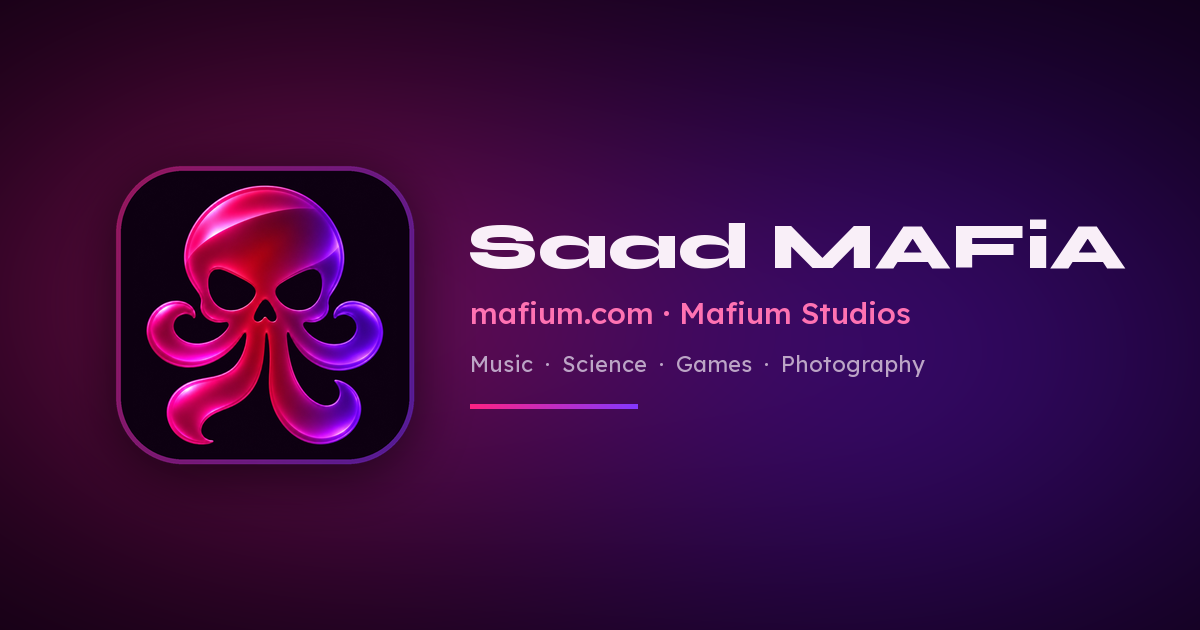
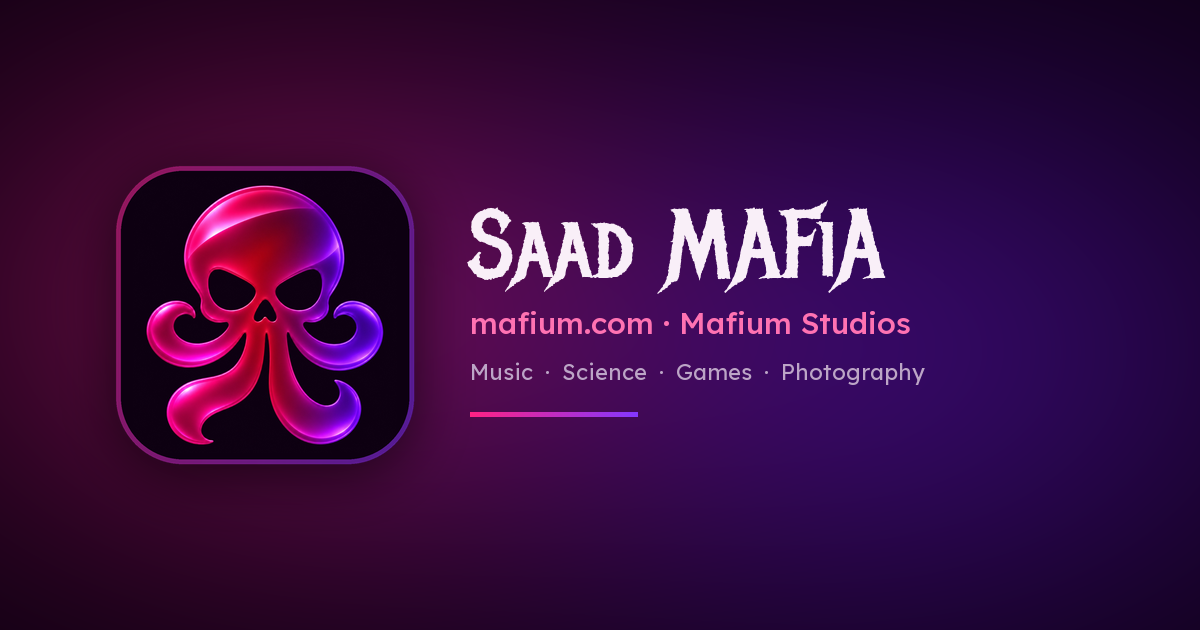
Apply Metal Mania brand font on mafium.com and sync Oddmeter Play button/theme to crimson-violet

diff --git a/oddmeter/drummer.js b/oddmeter/drummer.js
@@ -11,7 +11,7 @@
 export const drummerStorageKey = 'oddmeter-drummer-v1';
 
 export const DRUM_VOICE_MAP = {
-  click:     { name: 'Click',     color: '#ff5d4f', piece: 'tom',       hand: 'right' },
+  click:     { name: 'Click',     color: '#ff2a85', piece: 'tom',       hand: 'right' },
   hat:       { name: 'Hi-hat',    color: '#e2e6f0', piece: 'hat',       hand: 'left'  },
   cowbell:   { name: 'Cowbell',   color: '#6cb4ff', piece: 'cowbell',   hand: 'right' },
   kick:      { name: 'Kick',      color: '#ffb04f', piece: 'kick',      hand: 'foot'  },
@@ -222,7 +222,7 @@ export function createDrummerStage({ canvas, statusBadge = null, onTapPiece = nu
     crash:     { dx: -64, y: 24, r: 15, flash: 0, tilt: 0, color: '#fde047', sound: 'click',     accent: true  },
     hat:       { dx: -49, y: 42, r: 12, flash: 0, tilt: 0, color: '#e2e6f0', sound: 'hat',       accent: false },
     snare:     { dx: -31, y: 52, r: 13, flash: 0, tilt: 0, color: '#4ce3a8', sound: 'snare',     accent: false, rim: false },
-    tom:       { dx: -15, y: 39, r: 11, flash: 0, tilt: 0, color: '#ff5d4f', sound: 'click',     accent: false },
+    tom:       { dx: -15, y: 39, r: 11, flash: 0, tilt: 0, color: '#ff2a85', sound: 'click',     accent: false },
     kick:      { dx:   0, y: 57, r: 16, flash: 0, tilt: 0, color: '#ffb04f', sound: 'kick',      accent: true  },
     cowbell:   { dx:  17, y: 34, r:  9, flash: 0, tilt: 0, color: '#6cb4ff', sound: 'cowbell',   accent: false },
     woodblock: { dx:  35, y: 42, r:  9, flash: 0, tilt: 0, color: '#c98a5b', sound: 'woodblock', accent: false },
@@ -499,7 +499,7 @@ export function createDrummerStage({ canvas, statusBadge = null, onTapPiece = nu
 
     const spotAccent = music.countIn
       ? '#ffb04f'
-      : (music.inRepeat ? '#b18cff' : (downbeatFlash > 0.2 ? '#fde047' : '#ff5d4f'));
+      : (music.inRepeat ? '#b18cff' : (downbeatFlash > 0.2 ? '#fde047' : '#ff2a85'));
 
     // Sleek overhead metronome pendulum LED track embedded inside truss (zero overlap with drummer!)
     const railW = 68;
@@ -591,7 +591,7 @@ export function createDrummerStage({ canvas, statusBadge = null, onTapPiece = nu
       g.fillStyle = '#131828';
       g.fillRect(rx + 2, y0 + 12, 14, 14);
       drawEllipse(g, rx + 9, y0 + 19, 5, 5, '#eab308', '#0b0e17');
-      drawEllipse(g, rx + 9, y0 + 19, 2, 2, '#ff5d4f');
+      drawEllipse(g, rx + 9, y0 + 19, 2, 2, '#ff2a85');
 
       // Framed studio waveform art (right)
       const wx = cx + 132;
@@ -601,7 +601,7 @@ export function createDrummerStage({ canvas, statusBadge = null, onTapPiece = nu
       g.fillRect(wx + 1, y0 + 12, 24, 12);
       g.fillStyle = '#0e1424';
       g.fillRect(wx + 2, y0 + 13, 22, 10);
-      const waveCols = ['#ff5d4f', '#e2e6f0', '#6cb4ff', '#4ce3a8'];
+      const waveCols = ['#ff2a85', '#e2e6f0', '#6cb4ff', '#4ce3a8'];
       for (let i = 0; i < 6; i++) {
         const wh = 2 + ((i * 3 + 2) % 6);
         g.fillStyle = waveCols[i % waveCols.length];
@@ -618,7 +618,7 @@ export function createDrummerStage({ canvas, statusBadge = null, onTapPiece = nu
       g.fillStyle = '#15192a';
       g.fillRect(sx + 2, y0 + 14, 36, 7);
       g.fillRect(sx + 2, y0 + 23, 36, 7);
-      const spines = ['#ff5d4f', '#ffb04f', '#4ce3a8', '#6cb4ff', '#b18cff', '#e2e6f0', '#4fdce3'];
+      const spines = ['#ff2a85', '#ffb04f', '#4ce3a8', '#6cb4ff', '#b18cff', '#e2e6f0', '#4fdce3'];
       for (let i = 0; i < 11; i++) {
         g.fillStyle = spines[i % spines.length];
         g.fillRect(sx + 3 + i * 3, y0 + 15, 2, 6);
@@ -693,8 +693,8 @@ export function createDrummerStage({ canvas, statusBadge = null, onTapPiece = nu
       g.fillRect(gx + 6, y0 + 24, 4, 16);
       g.fillStyle = '#d97706';
       g.fillRect(gx + 7, y0 + 25, 2, 14);
-      drawEllipse(g, gx + 8, y0 + 46, 6, 7, '#ff5d4f', '#0b0e17');
-      drawEllipse(g, gx + 8, y0 + 40, 4, 4, '#ff5d4f', '#0b0e17');
+      drawEllipse(g, gx + 8, y0 + 46, 6, 7, '#ff2a85', '#0b0e17');
+      drawEllipse(g, gx + 8, y0 + 40, 4, 4, '#ff2a85', '#0b0e17');
       g.fillStyle = '#f8fafc';
       g.fillRect(gx + 6, y0 + 44, 4, 4);
       g.fillStyle = '#1e293b';
@@ -718,7 +718,7 @@ export function createDrummerStage({ canvas, statusBadge = null, onTapPiece = nu
       g.fillStyle = '#0d1220';
       g.fillRect(deskX + 6, deskY - 10, 9, 8);
       drawEllipse(g, deskX + 10, deskY - 6, 3, 3, '#23304f', (!reduce && ampPump > 0.3) ? '#38bdf8' : '#475569');
-      const ledColors = ['#ff5d4f', '#e2e6f0', '#6cb4ff', '#4ce3a8'];
+      const ledColors = ['#ff2a85', '#e2e6f0', '#6cb4ff', '#4ce3a8'];
       for (let k = 0; k < 4; k++) {
         const lit = playing && !allMuted && (((Math.floor(tick / 8) + k) % 2) === 0);
         g.fillStyle = lit ? ledColors[k] : '#26314c';
@@ -762,7 +762,7 @@ export function createDrummerStage({ canvas, statusBadge = null, onTapPiece = nu
       for (let r = 0; r < 4; r++) {
         g.fillStyle = '#0e1322';
         g.fillRect(tx + 3, y0 + 25 + r * 8, 20, 5);
-        g.fillStyle = r === 0 ? '#4ce3a8' : (r === 1 ? '#38bdf8' : (r === 2 ? '#ffb04f' : '#ff5d4f'));
+        g.fillStyle = r === 0 ? '#4ce3a8' : (r === 1 ? '#38bdf8' : (r === 2 ? '#ffb04f' : '#ff2a85'));
         g.fillRect(tx + 5, y0 + 27 + r * 8, 4 + ((r * 3 + (playing ? Math.floor(tick / 6) % 5 : 2)) % 8), 2);
         g.fillStyle = '#64748b';
         g.fillRect(tx + 19, y0 + 27 + r * 8, 2, 2);
@@ -796,7 +796,7 @@ export function createDrummerStage({ canvas, statusBadge = null, onTapPiece = nu
     g.fillRect(riserX, y0 + 50, riserW, 21);
     g.fillStyle = '#3c2142';
     g.fillRect(cx - 75, y0 + 52, 150, 17);
-    g.fillStyle = downbeatFlash > 0.25 ? '#ff5d4f' : '#5e315d';
+    g.fillStyle = downbeatFlash > 0.25 ? '#ff2a85' : '#5e315d';
     g.fillRect(cx - 73, y0 + 53, 146, 1);
     g.fillRect(cx - 73, y0 + 67, 146, 1);
     g.fillRect(cx - 73, y0 + 53, 1, 15);
@@ -839,7 +839,7 @@ export function createDrummerStage({ canvas, statusBadge = null, onTapPiece = nu
     g.fillStyle = '#cbd5e1';
     g.fillRect(cx - 3, 35 + dy, 1, 5);
     g.fillRect(cx + 2, 35 + dy, 1, 5);
-    g.fillStyle = downbeatFlash > 0.2 ? '#fde047' : '#ff5d4f';
+    g.fillStyle = downbeatFlash > 0.2 ? '#fde047' : '#ff2a85';
     g.fillRect(cx - 4, 41 + dy, 2, 4);
     g.fillStyle = '#38bdf8';
     g.fillRect(cx - 1, 39 + dy, 2, 6);
@@ -878,7 +878,7 @@ export function createDrummerStage({ canvas, statusBadge = null, onTapPiece = nu
     g.fillRect(cx + 6, 24 + dy, 2, 1);
 
     // Over-Ear Headphone Cups
-    const cupLed = countInFlash > 0.2 ? '#ffb04f' : (downbeatFlash > 0.25 ? '#fde047' : '#ff5d4f');
+    const cupLed = countInFlash > 0.2 ? '#ffb04f' : (downbeatFlash > 0.25 ? '#fde047' : '#ff2a85');
     g.fillStyle = '#0b0e17';
     g.fillRect(cx - 13, 17 + dy, 4, 8);
     g.fillRect(cx + 9, 17 + dy, 4, 8);
@@ -961,12 +961,12 @@ export function createDrummerStage({ canvas, statusBadge = null, onTapPiece = nu
       4,
       9,
       KIT.tom.flash > 0.22 ? '#ffffff' : '#f1f5f9',
-      KIT.tom.flash > 0.22 ? '#ff857a' : '#ff5d4f',
+      KIT.tom.flash > 0.22 ? '#ff6eb0' : '#ff2a85',
       '#b83227',
       '#e2e6f0',
     );
     if (KIT.tom.flash > 0.22) {
-      drawEllipse(g, cx + KIT.tom.dx, y0 + KIT.tom.y + tomBounce, 7, 2, '#ff5d4f');
+      drawEllipse(g, cx + KIT.tom.dx, y0 + KIT.tom.y + tomBounce, 7, 2, '#ff2a85');
     }
 
     // Mounted Cowbell (blue steel bell)
@@ -1059,7 +1059,7 @@ export function createDrummerStage({ canvas, statusBadge = null, onTapPiece = nu
       g.fillRect(cx + lx, kickY + ly, 2, 2);
     }
     drawEllipse(g, cx + 6, kickY + 5, 2, 2, '#0b0e17');
-    g.fillStyle = kickPunch ? '#ff5d4f' : '#1e2436';
+    g.fillStyle = kickPunch ? '#ff2a85' : '#1e2436';
     g.fillRect(cx - 6, kickY - 2, 3, 6);
     g.fillRect(cx - 1, kickY - 6, 3, 10);
     g.fillRect(cx + 4, kickY - 4, 3, 8);
@@ -1151,7 +1151,7 @@ export function createDrummerStage({ canvas, statusBadge = null, onTapPiece = nu
         g.fillStyle = '#1b1826';
         g.fillRect(bx, ledY + 1, bw, 2);
       } else if (active) {
-        g.fillStyle = music.countIn ? '#ffb04f' : (music.inRepeat ? '#b18cff' : (b === 0 ? '#fde047' : '#ff5d4f'));
+        g.fillStyle = music.countIn ? '#ffb04f' : (music.inRepeat ? '#b18cff' : (b === 0 ? '#fde047' : '#ff2a85'));
         g.fillRect(bx, ledY, bw, 4);
         g.fillStyle = '#ffffff';
         g.fillRect(bx + 1, ledY + 1, Math.max(1, bw - 2), 1);

diff --git a/oddmeter/styles.css b/oddmeter/styles.css
@@ -3,28 +3,28 @@
   --sans: Inter, -apple-system, BlinkMacSystemFont, 'SF Pro Text', 'Segoe UI', system-ui, sans-serif;
   --mono: 'IBM Plex Mono', 'JetBrains Mono', ui-monospace, 'SF Mono', 'Cascadia Mono', Menlo, Consolas, monospace;
   font-family: var(--sans);
-  --background: #0d0e11;
-  --panel: #15171c;
-  --surface: #1d2028;
-  --surface-hover: #262a35;
-  --well: #0f1116;
-  --line: #282c36;
-  --line-control: #525866;
-  --line-strong: #6d7588;
-  --line-custom: #9aa3b8;
-  --text: #f3f2ef;
-  --muted: #a6abb8;
-  --accent: #ff5d4f;
-  --accent-hover: #ff7c70;
-  --accent-ink: #140d0c;
+  --background: #0d0011;
+  --panel: #16081e;
+  --surface: #200d2c;
+  --surface-hover: #2d143d;
+  --well: #100416;
+  --line: #2e1740;
+  --line-control: #583570;
+  --line-strong: #784c96;
+  --line-custom: #a97ac7;
+  --text: #f9eff8;
+  --muted: #b69cc2;
+  --accent: #ff2a85;
+  --accent-hover: #ff5ca3;
+  --accent-ink: #ffffff;
   --trim: #ffb04f;
   --ok: #4ce3a8;
   --repeat: #b18cff;
   --playhead: #ffffff;
-  --playhead-glow: #ff6b5e;
+  --playhead-glow: #ff2a85;
   --playhead-band: rgb(255 255 255 / 0.085);
   --playhead-band-edge: rgb(255 255 255 / 0.22);
-  --sound-click: #ff5d4f;
+  --sound-click: #ff2a85;
   --sound-woodblock: #c98a5b;
   --sound-clave: #4fdce3;
   --sound-rimshot: #ff84be;
@@ -65,7 +65,8 @@ body {
   min-width: 288px;
   min-block-size: 100svh;
   background:
-    radial-gradient(960px 440px at 50% -120px, color-mix(in oklab, var(--accent) 8%, transparent), transparent 72%),
+    radial-gradient(960px 440px at 30% -120px, color-mix(in oklab, var(--accent) 12%, transparent), transparent 72%),
+    radial-gradient(840px 420px at 78% -100px, rgb(139 52 255 / 0.12), transparent 72%),
     var(--background);
   color: var(--text);
   line-height: 1.45;
@@ -336,20 +337,20 @@ main.shell { padding-block: 12px 16px; }
   padding: 8px 18px;
   border-radius: var(--radius-md);
   color: var(--accent-ink);
-  background: var(--accent);
-  border-color: var(--accent);
+  background: linear-gradient(118deg, #ff2280, #8f34ff);
+  border-color: color-mix(in oklab, #ff2280 62%, #8f34ff);
   font-family: var(--mono);
   font-weight: 750;
   font-size: .85rem;
   line-height: 1.1;
   letter-spacing: .06em;
   text-transform: uppercase;
-  box-shadow: 0 4px 16px color-mix(in oklab, var(--accent) 28%, transparent), inset 0 1px 0 rgb(255 255 255 / 0.25);
+  box-shadow: 0 4px 18px rgb(255 34 128 / 0.32), 0 2px 14px rgb(143 52 255 / 0.26), inset 0 1px 0 rgb(255 255 255 / 0.28);
 }
 .play:not(:disabled):hover {
-  background: var(--accent-hover);
+  background: linear-gradient(118deg, #ff4294, #a352ff);
   border-color: var(--accent-hover);
-  box-shadow: 0 6px 20px color-mix(in oklab, var(--accent) 38%, transparent), inset 0 1px 0 rgb(255 255 255 / 0.3);
+  box-shadow: 0 6px 22px rgb(255 34 128 / 0.42), 0 4px 18px rgb(143 52 255 / 0.34), inset 0 1px 0 rgb(255 255 255 / 0.34);
 }
 .play[data-running] {
   background: color-mix(in oklab, var(--accent) 18%, var(--surface));

diff --git a/home.css b/home.css
@@ -41,7 +41,7 @@
   --vermilion: var(--vermilion-light);
   --cobalt: var(--cobalt-light);
 
-  --brand-display: 'Syne', 'Lexend', -apple-system, BlinkMacSystemFont, sans-serif;
+  --brand-display: 'Metal Mania', 'Lexend', -apple-system, BlinkMacSystemFont, sans-serif;
   --display: 'Lexend', -apple-system, BlinkMacSystemFont, 'Segoe UI', system-ui, sans-serif;
   --sans: 'Lexend', -apple-system, BlinkMacSystemFont, 'Segoe UI', system-ui, sans-serif;
 
@@ -228,8 +228,8 @@ a { color: inherit; }
   align-items: center;
   gap: 10px;
   text-decoration: none;
-  font: 800 1.04rem/1 var(--brand-display);
-  letter-spacing: -.02em;
+  font: 400 1.3rem/1 var(--brand-display);
+  letter-spacing: .04em;
   white-space: nowrap;
 }
 .wordmark-mark {
@@ -400,8 +400,8 @@ section[tabindex="-1"]:focus { outline: none; }
 }
 .hero-title {
   margin: 0;
-  font: 800 clamp(2.65rem, 1.75rem + 4vw, 4.65rem)/.96 var(--brand-display);
-  letter-spacing: -.035em;
+  font: 400 clamp(3.1rem, 2.1rem + 4.8vw, 5.4rem)/1.02 var(--brand-display);
+  letter-spacing: .025em;
   color: var(--ink);
   text-wrap: balance;
 }
@@ -762,7 +762,7 @@ section[tabindex="-1"]:focus { outline: none; }
 .oddmeter-stage {
   display: block;
   min-block-size: 360px;
-  background: #0d0e11;
+  background: #0d0011;
 }
 .oddmeter-frame {
   display: block;
@@ -770,7 +770,7 @@ section[tabindex="-1"]:focus { outline: none; }
   min-block-size: 360px;
   height: 410px;
   border: 0;
-  background: #0d0e11;
+  background: #0d0011;
 }
 
 /* Fuzia Gameplay Plate */

diff --git a/oddmeter/app.js b/oddmeter/app.js
@@ -3,7 +3,7 @@ import { pulseSoundOptions, soundOptions } from './sounds.js?v=audio1';
 import { tempoBeats, rhythmPresets, parseGrouping, groupStarts, groupingChoices, editRhythmLane, snapshotBeat, pasteBeat, pasteBeats, moveBeat, insertBeat, insertBeats, deleteBeats } from './practice.js?v=delete1';
 import { readSettings, storageKey, defaultVolume, setupLinkPrefix, encodeSetupSnapshot, decodeSetupSnapshot, makeSetupLink, readSetupLink, makeIdeaLink, readIdeaParam } from './settings.js?v=delete1';
 import { authorNameFromUser, createFirebaseCloudAdapter, createIdeaStore, defaultGuestName, isDefaultIdeaTitle, orderIdeasForDisplay, readSavedAuthor, readSavedTitle, writeSavedAuthor, writeSavedTitle } from './ideas.js?v=ideas-order3';
-import { createDrummerStage, drummerStorageKey } from './drummer.js?v=drummer6';
+import { createDrummerStage, drummerStorageKey } from './drummer.js?v=drummer6-brand3';
 
 const byId = (id) => document.getElementById(id);
 const ui = {

diff --git a/oddmeter/index.html b/oddmeter/index.html
@@ -3,7 +3,7 @@
 <head>
   <meta charset="utf-8">
   <meta name="viewport" content="width=device-width, initial-scale=1">
-  <meta name="theme-color" content="#0d0e11">
+  <meta name="theme-color" content="#0d0011">
   <meta name="description" content="A practice metronome for beat subdivisions, polyrhythms, and odd meters.">
   <title>Oddmeter — Practice Metronome</title>
   <!-- Link previews. Crawlers do not run JS, so these stay generic for every
@@ -27,8 +27,8 @@
       document.documentElement.classList.add('oddmeter-embed');
     }
   </script>
-  <link rel="stylesheet" href="./styles.css?v=drummer6-brand2">
-  <script type="module" src="./app.js?v=drummer6"></script>
+  <link rel="stylesheet" href="./styles.css?v=drummer6-brand3">
+  <script type="module" src="./app.js?v=drummer6-brand3"></script>
 </head>
 <body>
   <header class="site-header">

diff --git a/index.html b/index.html
@@ -33,8 +33,8 @@
   <link rel="manifest" href="./site.webmanifest">
   <link rel="preconnect" href="https://fonts.googleapis.com">
   <link rel="preconnect" href="https://fonts.gstatic.com" crossorigin>
-  <link rel="stylesheet" href="https://fonts.googleapis.com/css2?family=Lexend:wght@300..700&family=Syne:wght@700;800&display=swap">
-  <link rel="stylesheet" href="./home.css?v=17">
+  <link rel="stylesheet" href="https://fonts.googleapis.com/css2?family=Lexend:wght@300..700&family=Metal+Mania&display=swap">
+  <link rel="stylesheet" href="./home.css?v=18">
   <script type="module" src="./home.js?v=15"></script>
 </head>
 <body>
